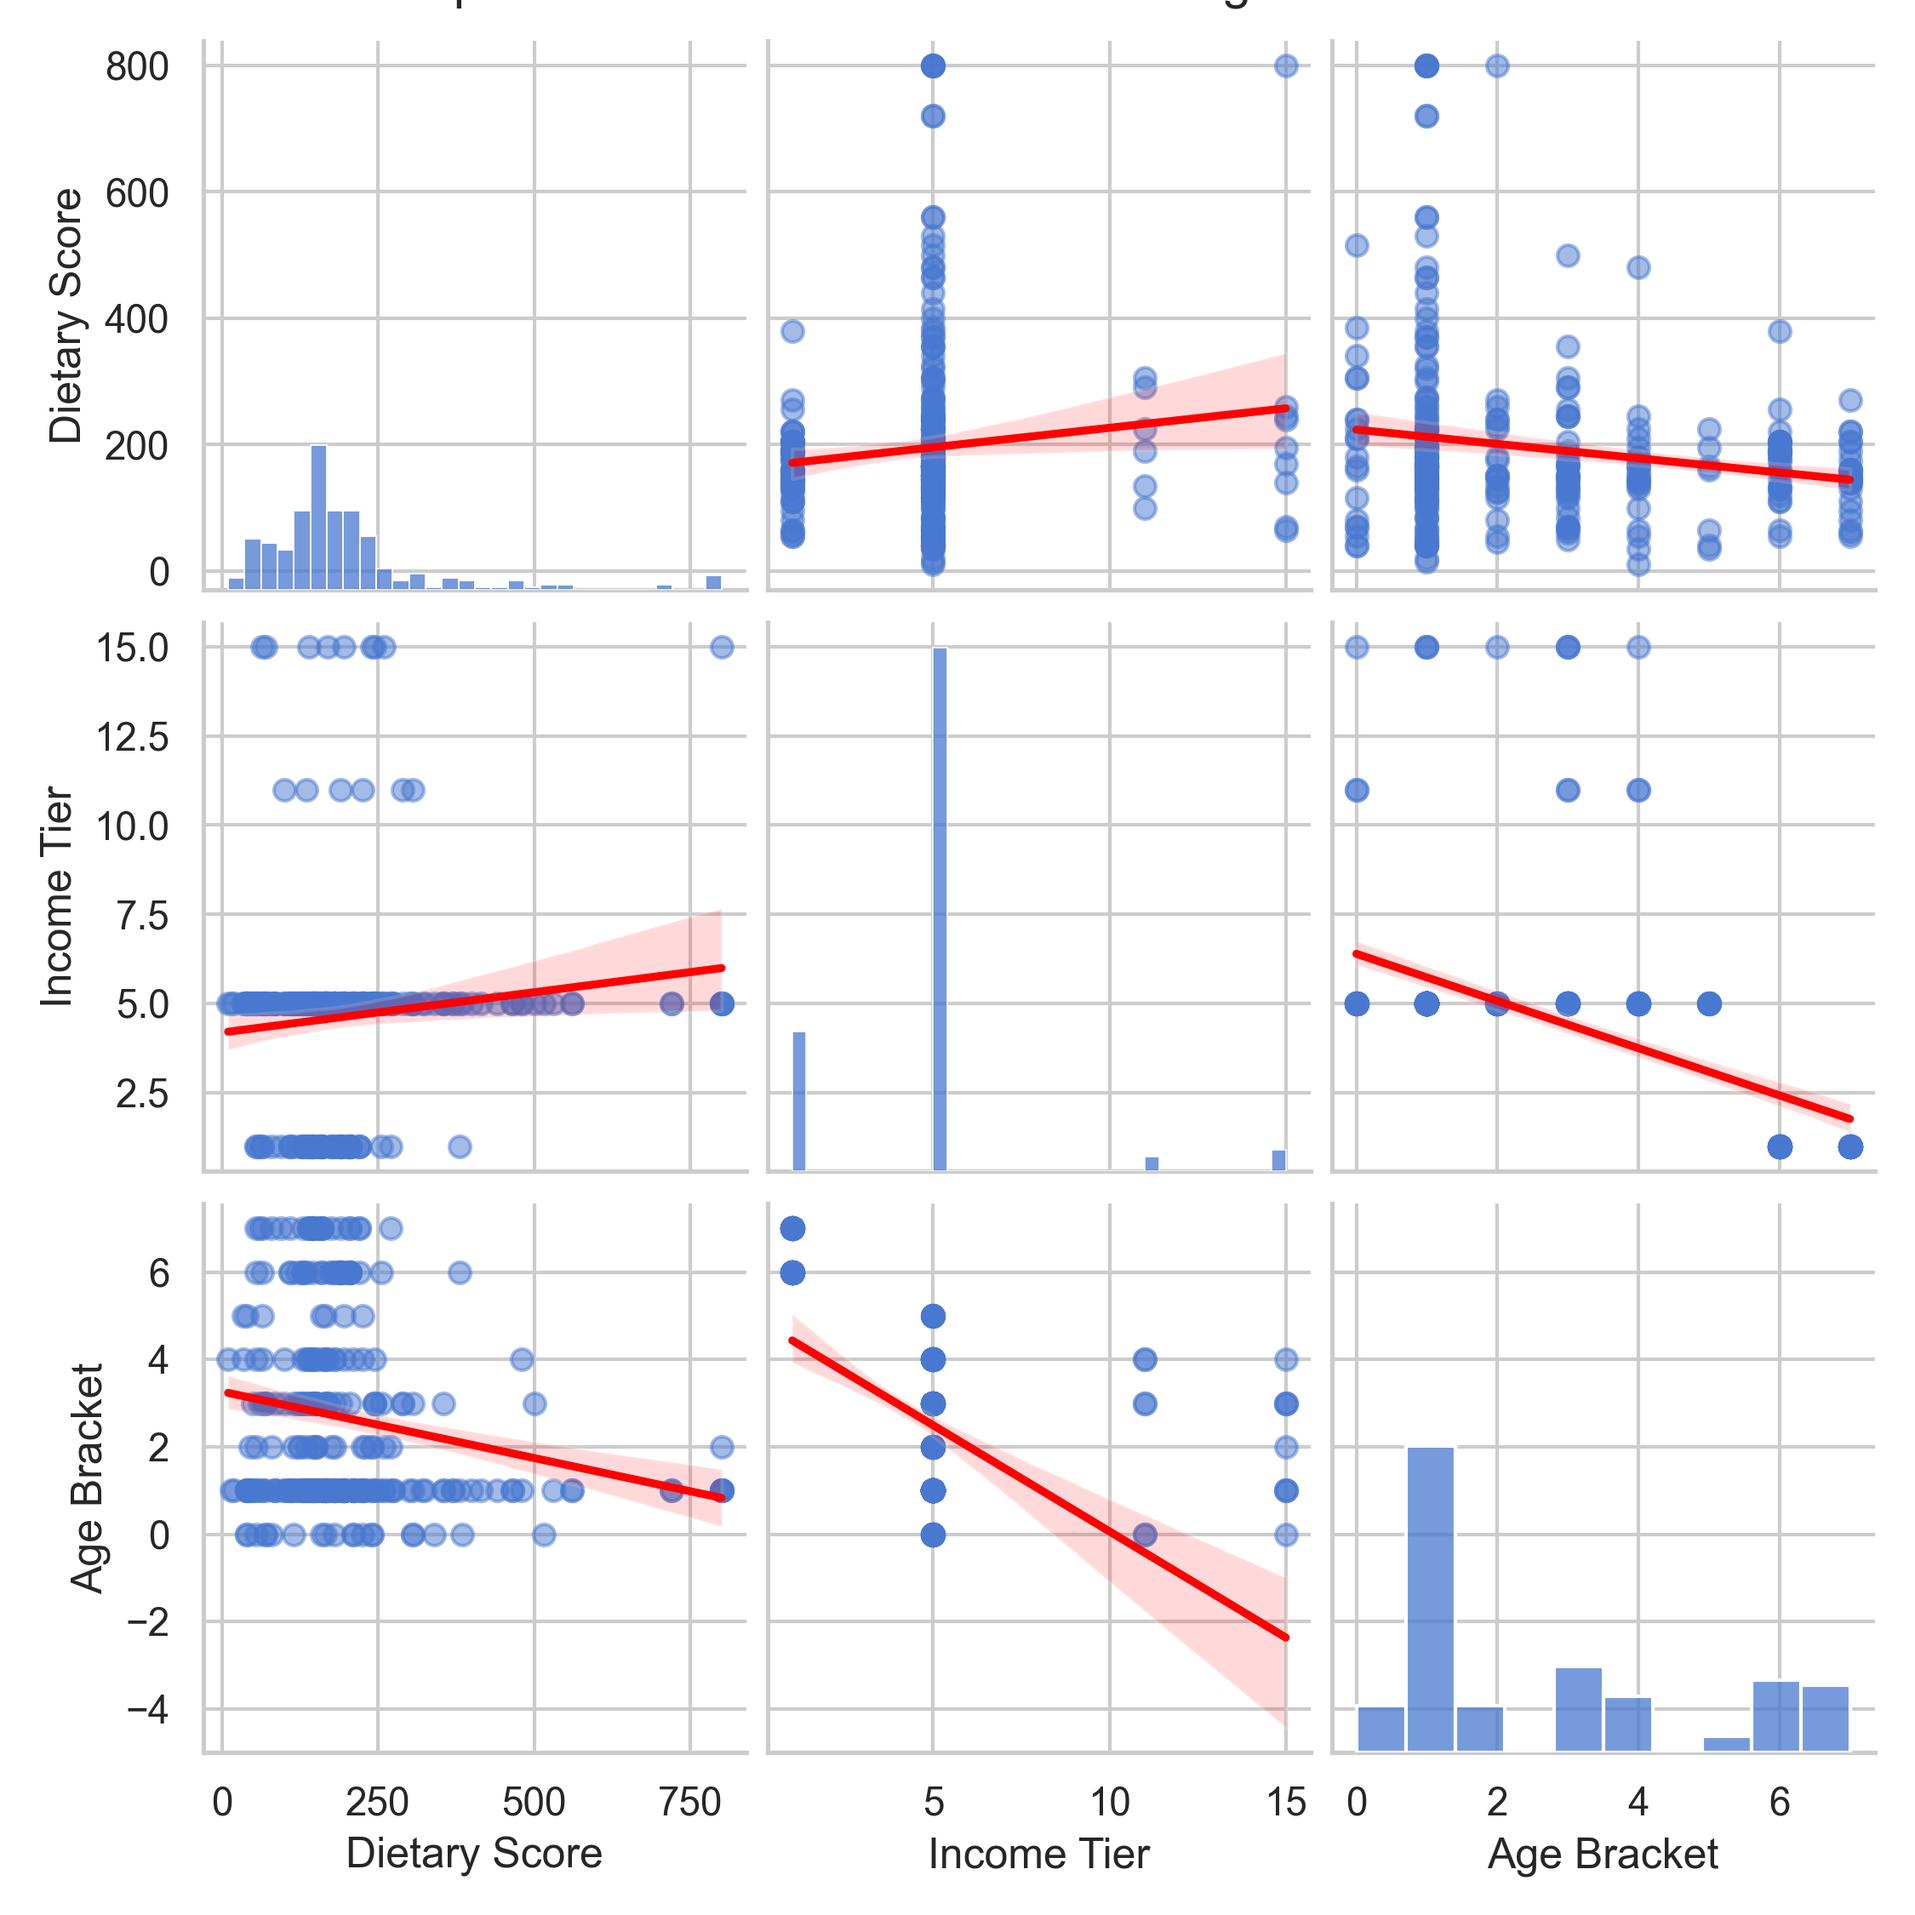
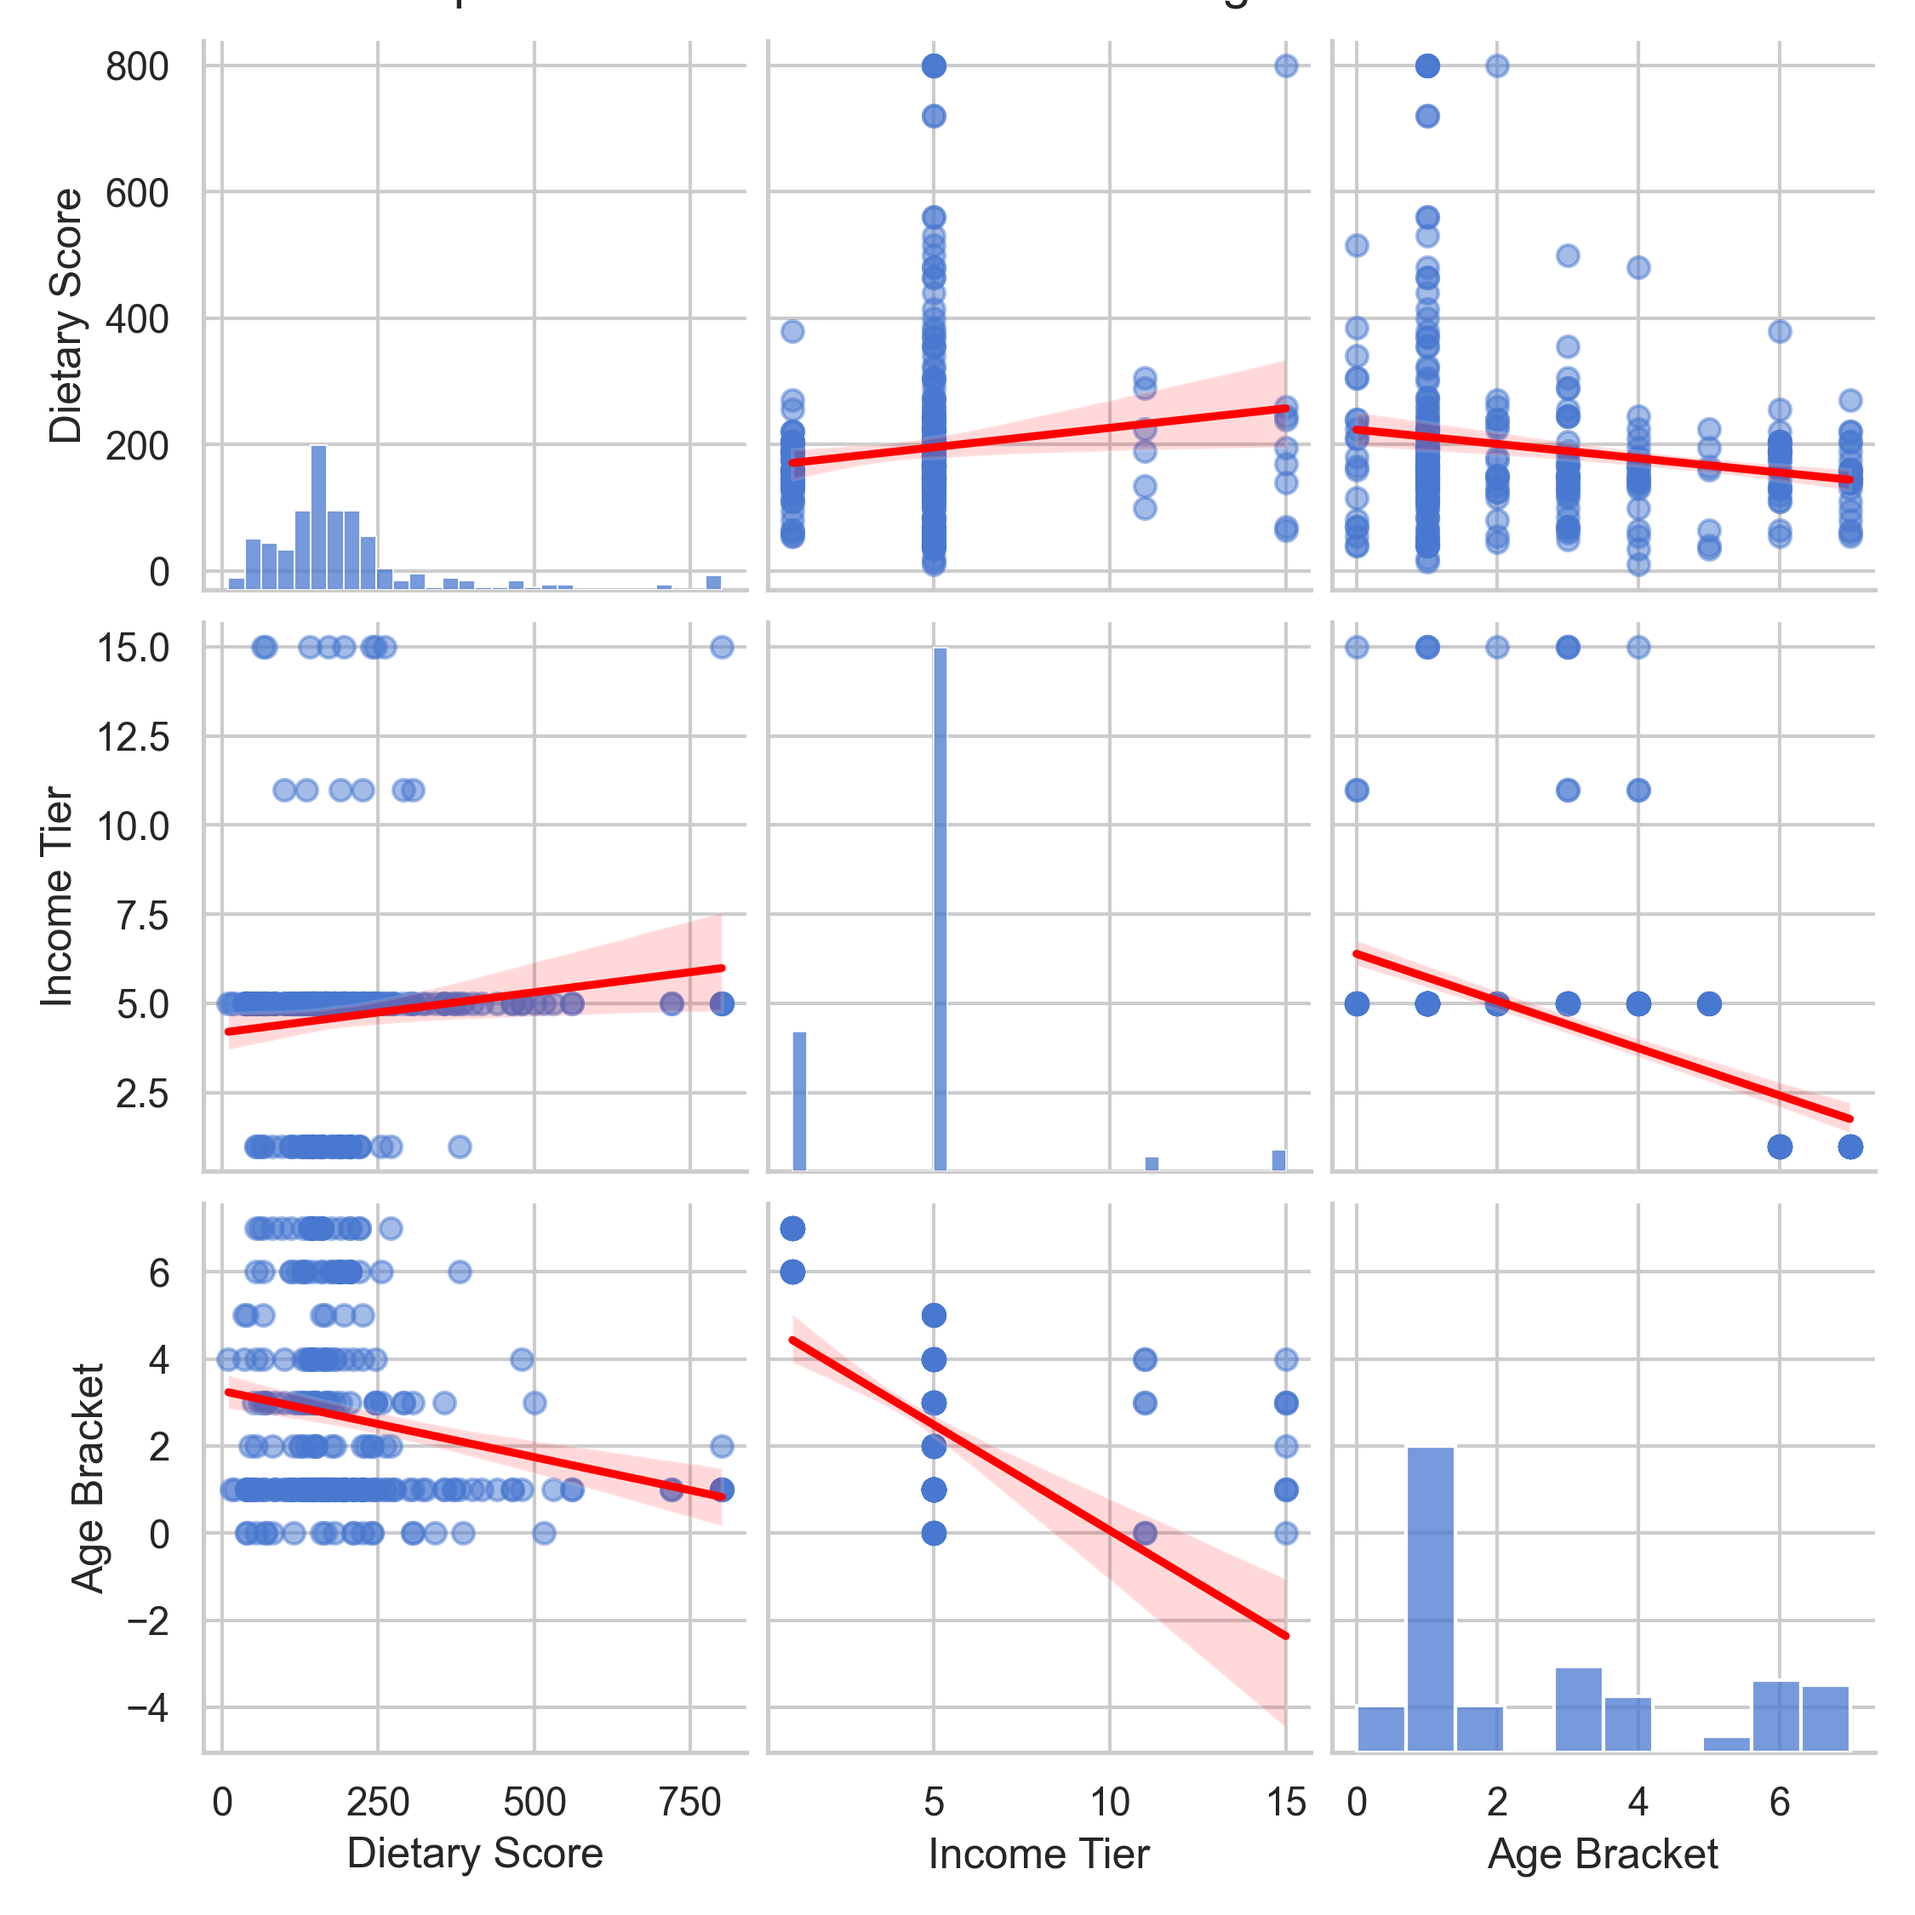
Add Objective 5

diff --git a/main.py b/main.py
@@ -163,6 +163,12 @@ plt.tight_layout()
 plt.savefig(os.path.join(plot_dir, '3_Usage_vs_Dietary_Score.png'))
 plt.close()
 
+# Objective 5: Kendall's Tau-b (Robust Ordinal Association)
+# Rationale: Replaces the Chi-Square test to respect the progressive ranking of Likert data 
+# without forcing nominal categorization or requiring matrix inversion.
+tau, tau_p = stats.kendalltau(df['usage_ordinal'], df['perception_score_continuous'], nan_policy='omit')
+print(f"\nObjective 5 Upgrade (Kendall's Tau-b): Correlation={tau:.3f}, p-value={tau_p:.3f}")
+
 # B. DEPTH OF RESEARCH EXPLORATIONS
 print("\nB. DEPTH OF RESEARCH EXPLORATIONS")
 
